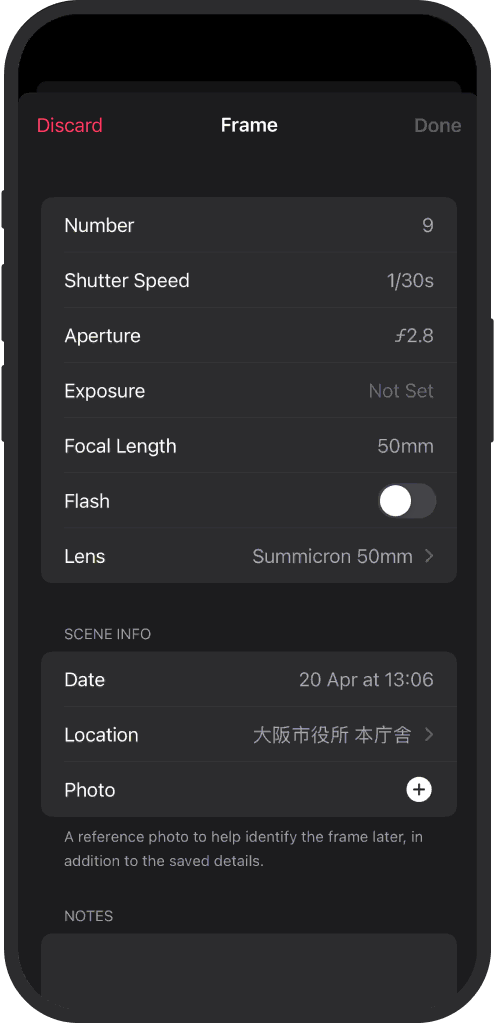
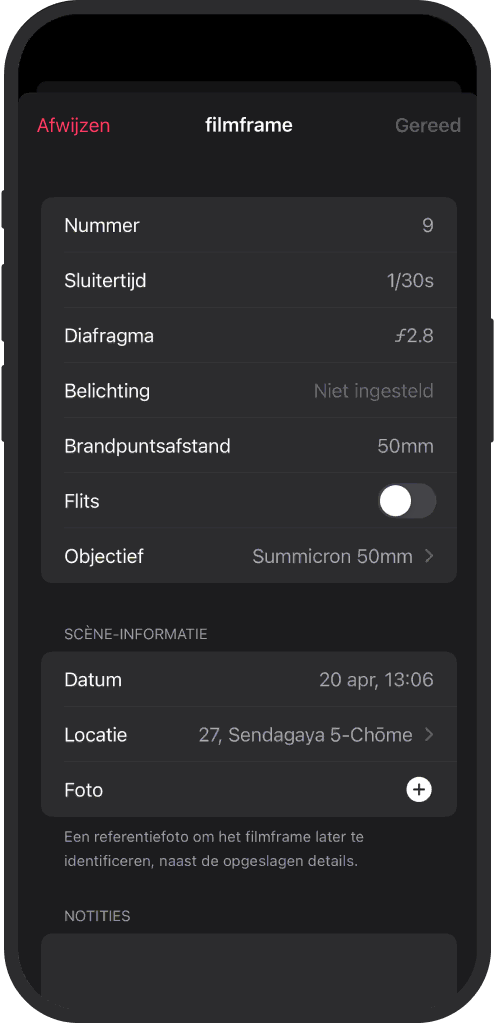
adds nederlands ss

diff --git a/library/css/style.min.css b/library/css/style.min.css
@@ -1,1 +1,1 @@
-html{scroll-behavior:smooth}.h1,a.logo,body,h1,h2,h3{font-optical-sizing:auto}h2{font-size:var(--font-size-heading3);line-height:1;font-weight:600;margin-top:var(--large-spacing);margin-bottom:var(--grid-vgap)}h3{font-size:var(--font-size-heading1);line-height:120%;font-weight:600}.text-bigbody{font-family:Geist,sans-serif;font-optical-sizing:auto;font-style:normal;color:#fff;font-size:var(--font-size-heading2);margin-top:0;font-weight:400;line-height:1.25}.feature-list-desktop,.feature-list-mobile{row-gap:var(--grid-vgap)}.screenshot-container{background-color:#0c0c0c;border-radius:1.5rem;border:1px solid #333;text-align:center;box-sizing:border-box}.screenshot-container img{width:100%;max-width:100%;height:auto;padding:18.5% 22%}.screenshot-desktop img{padding:14% 14%}.review-list li{display:flex;flex-direction:column;gap:var(--grid-hgap)}.review-list h3{margin:0}article h3{padding-top:.5rem;margin-bottom:0}article p{margin-top:1rem}blockquote{margin:0;padding:0}figure{break-inside:avoid;background-color:#0c0c0c;border-radius:1.5rem;border:1px solid #333;padding:1.5rem 1.25rem;margin:0;display:flex;flex-direction:column}blockquote p{margin-bottom:0}details{border-top:1px solid #fff}details p{margin-top:0;max-width:46.25rem;margin-bottom:3rem}details summary{display:flex;align-items:center;font-family:Geist,sans-serif;font-optical-sizing:auto;font-style:normal;font-size:var(--font-size-heading1);color:#fff;cursor:pointer;list-style:none;position:relative;padding-right:1.5rem;height:5rem}summary h3{font-weight:400;line-height:1.5}details summary::-webkit-details-marker{display:none}details summary::before{content:"+";position:absolute;right:0;top:50%;transform:translateY(-50%);font-family:Geist,sans-serif;font-weight:400;line-height:1;font-size:2rem}details[open] summary::before{content:"−"}.contact-sections h3{margin-top:0;margin-bottom:.5rem}.contact-sections a{display:inline-block;margin-bottom:.375rem;text-transform:uppercase;font-size:var(--font-size-body-uppercase)}.contact-section{display:flex;flex-direction:column;gap:1.5rem}.footer{margin-top:var(--huge-spacing);padding-bottom:2rem;gap:2rem}.footer-left{font-size:var(--font-size-heading4);font-family:Geist,sans-serif;font-optical-sizing:auto;font-style:normal;color:#fff;line-height:1.125;font-weight:500}.footer-right ul{font-size:var(--font-size-small);text-transform:uppercase;display:flex;flex-direction:column;line-height:1.4}.copyright{color:#fff}button{font-size:var(--font-size-small);text-transform:uppercase;display:flex;flex-direction:column;line-height:1.4;border:none;padding:0;margin:0;background:0 0;color:inherit;cursor:pointer}.language-dropdown{position:relative;display:inline-block}ul.language-list{display:none;position:absolute;bottom:100%;right:0;background-color:#fff;min-width:160px;max-height:180px;overflow-y:auto;z-index:1;margin:0;padding:.25rem 0;list-style:none;border-radius:.25rem}.language-list a{color:#333;text-decoration:none;display:block;padding:.25rem .5rem}.language-list a:hover{background-color:#eee}.language-dropdown:hover .language-list{display:block}@media (min-width:768px){.download-buttons{display:inline-flex}.footer-left{grid-column:span 11}.footer{grid-template-columns:repeat(12,1fr);align-items:end;padding-bottom:3rem;gap:var(--grid-hgap)}.feature-list-desktop,.feature-list-mobile{row-gap:var(--grid-vgap)}}
+html{scroll-behavior:smooth}.h1,a.logo,body,h1,h2,h3{font-optical-sizing:auto}h2{font-size:var(--font-size-heading3);line-height:1;font-weight:600;margin-top:var(--large-spacing);margin-bottom:var(--grid-vgap)}h3{font-size:var(--font-size-heading1);line-height:120%;font-weight:600}.text-bigbody{font-family:Geist,sans-serif;font-optical-sizing:auto;font-style:normal;color:#fff;font-size:var(--font-size-heading2);margin-top:0;font-weight:400;line-height:1.25}.feature-list-desktop,.feature-list-mobile{row-gap:var(--grid-vgap)}.screenshot-container{background-color:#0c0c0c;border-radius:1.5rem;border:1px solid #333;text-align:center;box-sizing:border-box}.screenshot-container img{width:100%;max-width:100%;height:auto;padding:18.5% 22%}.screenshot-desktop img{padding:14% 14%}.review-list li{display:flex;flex-direction:column;gap:var(--grid-hgap)}.review-list h3{margin:0}article h3{padding-top:.5rem;margin-bottom:0}article p{margin-top:1rem}blockquote{margin:0;padding:0}figure{break-inside:avoid;background-color:#0c0c0c;border-radius:1.5rem;border:1px solid #333;padding:1.5rem 1.25rem;margin:0;display:flex;flex-direction:column}blockquote p{margin-bottom:0}details{border-top:1px solid #fff}details p{margin-top:0;max-width:46.25rem;margin-bottom:3rem}details summary{display:flex;align-items:center;font-family:Geist,sans-serif;font-optical-sizing:auto;font-style:normal;font-size:var(--font-size-heading1);color:#fff;cursor:pointer;list-style:none;position:relative;padding-right:1.5rem;height:5rem}summary h3{font-weight:400;line-height:1.5}details summary::-webkit-details-marker{display:none}details summary::before{content:"+";position:absolute;right:0;top:50%;transform:translateY(-50%);font-family:Geist,sans-serif;font-weight:400;line-height:1;font-size:2rem}details[open] summary::before{content:"−"}.contact-sections h3{margin-top:0;margin-bottom:.5rem}.contact-sections a{display:inline-block;margin-bottom:.375rem;text-transform:uppercase;font-size:var(--font-size-body-uppercase)}.contact-section{display:flex;flex-direction:column;gap:1.5rem}.footer{margin-top:var(--huge-spacing);padding-bottom:2rem;gap:2rem}.footer-left{font-size:var(--font-size-heading4);font-family:Geist,sans-serif;font-optical-sizing:auto;font-style:normal;color:#fff;line-height:1.125;font-weight:500}.footer-right ul{font-size:var(--font-size-small);text-transform:uppercase;display:flex;flex-direction:column;line-height:1.4}.copyright{color:#fff}button{font-size:var(--font-size-small);text-transform:uppercase;display:flex;flex-direction:column;line-height:1.4;border:none;padding:0;margin:0;background:0 0;color:inherit;cursor:pointer}.language-dropdown{position:relative;display:inline-block}ul.language-list{display:none;position:absolute;bottom:100%;left:0;right:auto;background-color:#fff;min-width:160px;max-height:180px;overflow-y:auto;z-index:1;margin:0;padding:.25rem 0;list-style:none;border-radius:.25rem}.language-list a{color:#333;text-decoration:none;display:block;padding:.25rem .5rem}.language-list a:hover{background-color:#eee}.language-dropdown:hover .language-list{display:block}@media (min-width:768px){.download-buttons{display:inline-flex}.footer-left{grid-column:span 11}.footer{grid-template-columns:repeat(12,1fr);align-items:end;padding-bottom:3rem;gap:var(--grid-hgap)}.feature-list-desktop,.feature-list-mobile{row-gap:var(--grid-vgap)}ul.language-list{left:auto;right:0}}

diff --git a/library/css/style.css b/library/css/style.css
@@ -230,7 +230,8 @@ ul.language-list {
   display: none;
   position: absolute;
   bottom: 100%; /* place above the button */
-  right: 0; /* align to right of button */
+  left: 0; /* align to right of button */
+  right: auto;
   background-color: white;
   min-width: 160px;
   max-height: 180px;
@@ -279,7 +280,10 @@ ul.language-list {
   .feature-list-desktop {
     row-gap: var(--grid-vgap);
   }
-
+ul.language-list {
+  left: auto; /* align to right of button */
+  right: 0;
+}
 
 
 }
